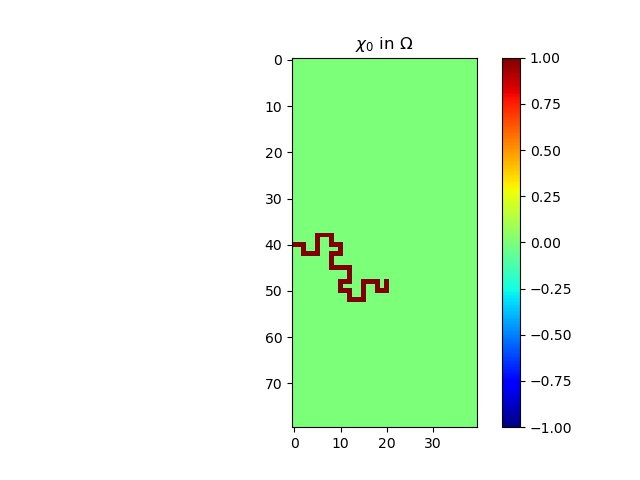
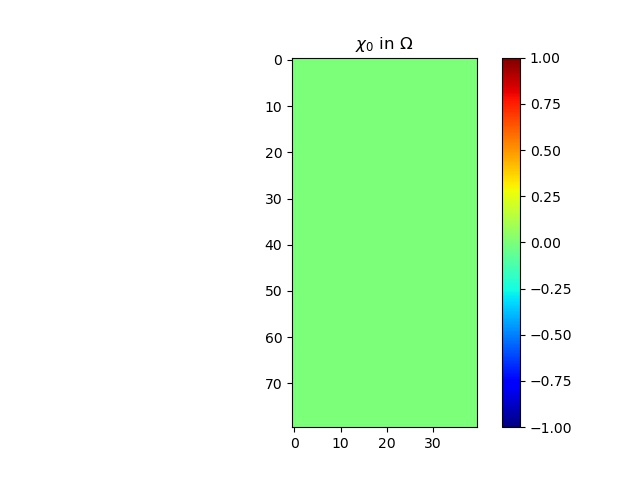
m

Changed region(s): [[0.4375, 0.4688, 0.625, 0.6562]]

diff --git a/demo_control_polycopie.py b/demo_control_polycopie.py
@@ -27,14 +27,9 @@ def your_optimization_procedure(domain_omega, spacestep, wavenumber, f, f_dir, f
                                 beta_pde, alpha_pde, alpha_dir, beta_neu, beta_rob, alpha_rob,
                                 Alpha, mu, chi, V_obj, mu1, V_0):
 
-<<<<<<< HEAD
     eps1 = 0.01
-    eps2_0 = 60
+    eps2_0 = 30
     eps2 = eps2_0
-=======
-    eps1 = 0.5
-    eps2 = 0.01
->>>>>>> afc071441d8a280826a4be445258f3b2c1549285
     eps0 = 0.00001
     """This function return the optimized density.
 
@@ -84,11 +79,8 @@ def your_optimization_procedure(domain_omega, spacestep, wavenumber, f, f_dir, f
 
         Jp[1:, :] = Jp[:-1, :]
 
-<<<<<<< HEAD
-=======
         postprocessing._plot_perso_solution(Jp, chi*0)
 
->>>>>>> afc071441d8a280826a4be445258f3b2c1549285
         while ene >= energy[k] and mu > eps0:
             l = 0
             # print('    a. computing gradient descent')
@@ -108,16 +100,9 @@ def your_optimization_procedure(domain_omega, spacestep, wavenumber, f, f_dir, f
                     l += eps2
                 print(l)
                 chi_next = projector(chi-mu*Jp, l, domain_omega)
-<<<<<<< HEAD
-                int = integral(chi_next)
                 eps2 /= 2
-                print(int, V_obj)
             postprocessing._plot_perso_solution(chi_next, chi*0)
             # print('    c. computing solution of Helmholtz problem, i.e., u')
-=======
-
-            print('    c. computing solution of Helmholtz problem, i.e., u')
->>>>>>> afc071441d8a280826a4be445258f3b2c1549285
             alpha_rob = Alpha * chi_next
             u = processing.solve_helmholtz(domain_omega, spacestep, wavenumber, f, f_dir, f_neu,
                                            f_rob, beta_pde, alpha_pde, alpha_dir, beta_neu, beta_rob, alpha_rob)
